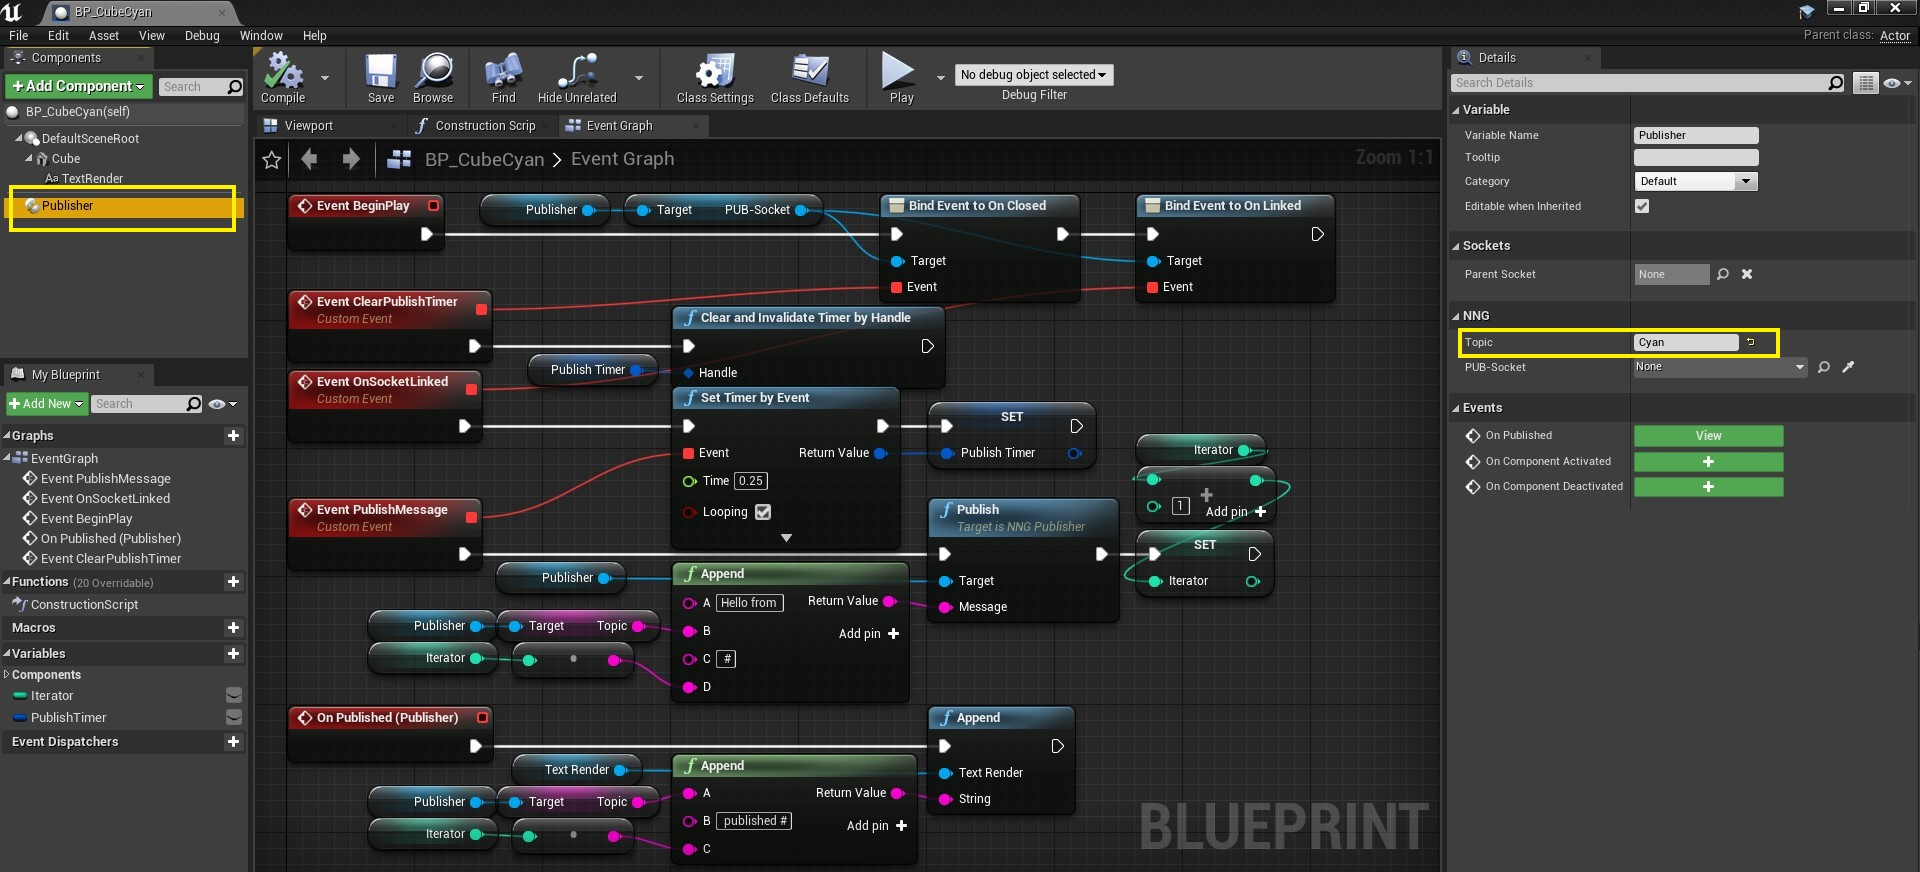
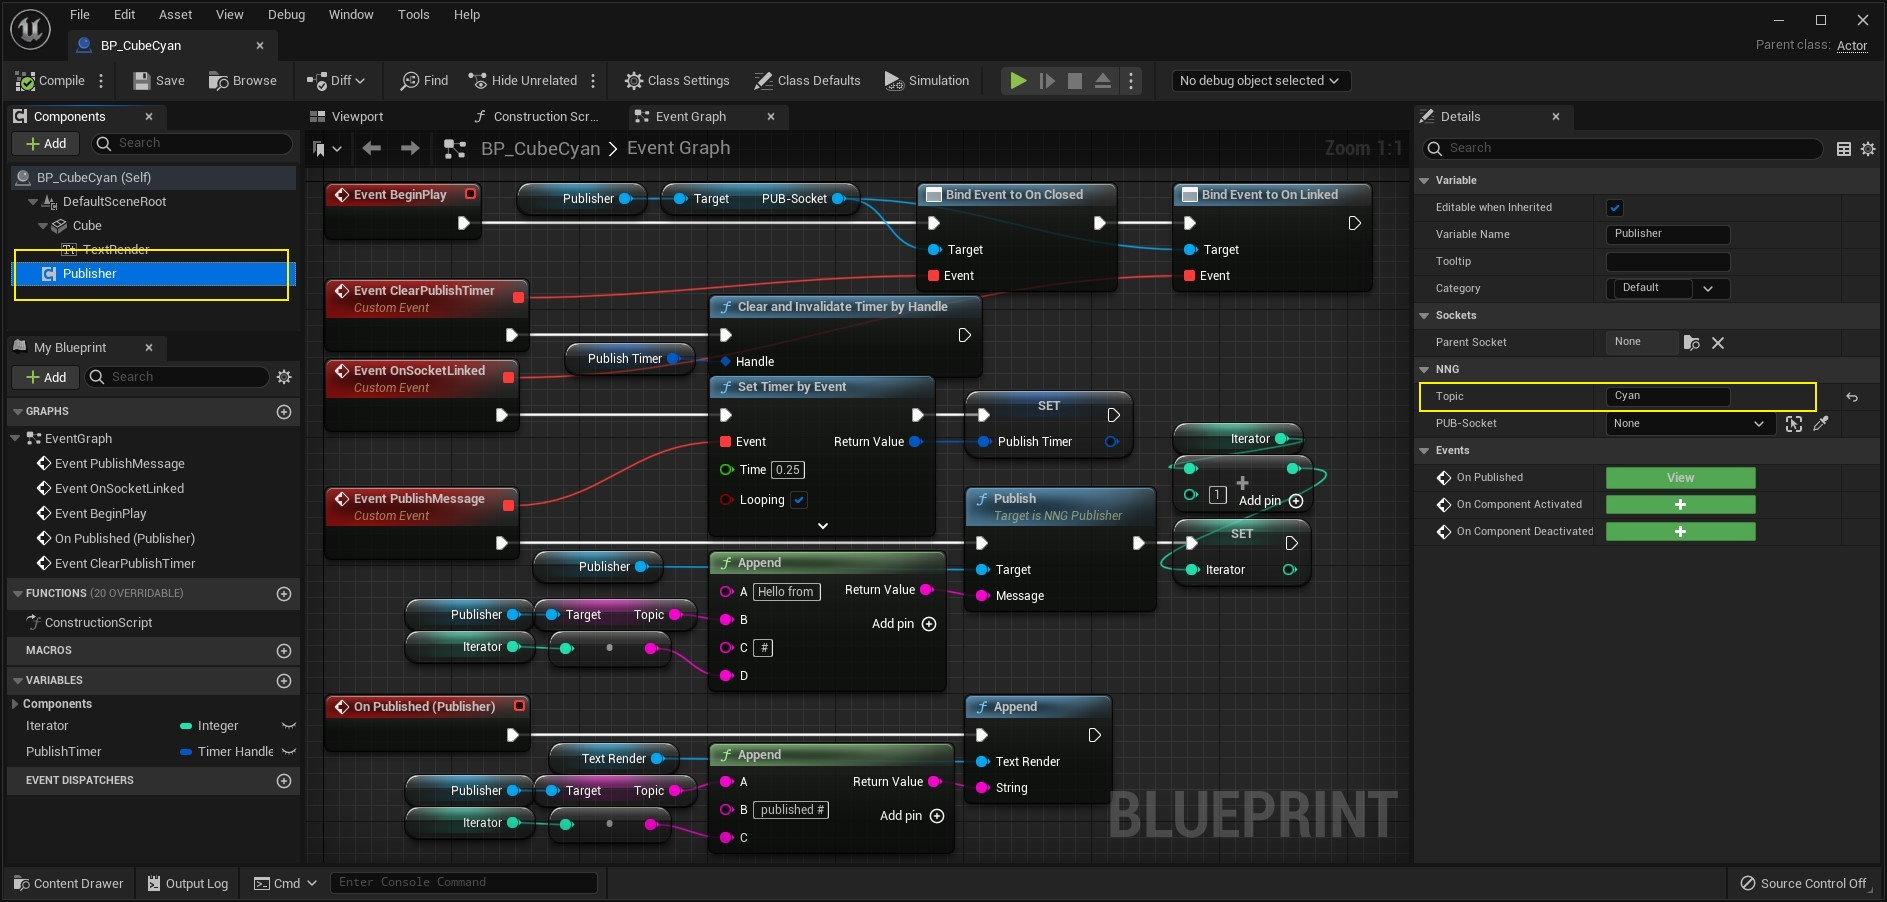
doc: Update screenshots and readme using UE5

diff --git a/README.md b/README.md
@@ -229,10 +229,10 @@ A Subscriber Actor-Component has:
 
 ## 3. Demo
 
-Find the plugin folders in the editors content browser by checking `View Options > Show Engine Content` and navigate to the folder 'Integration Tool Content'. The folder 'Demo' provides with three Blueprints BP_CubeCyan, BP_CubeYellow and BP_CubeGreen as well as with a map Map_PubSub_Demo.
+In the content browser enable the listing of plugin folders by checking `Settings > Show Engine Content`. Find and navigate to folder 'Integration Tool Content'. The folder 'Demo' provides with three Blueprints BP_CubeCyan, BP_CubeYellow and BP_CubeGreen as well as with a map Map_PubSub_Demo.
 
 ![Screenshot of Plugin Content](Docs/ScreenshotPluginContent.jpg "Screenshot of Plugin Content")
-<br>*Fig. 3.1.: Screenshot of Content Browser with 'Integration Tool' Content*
+<br>*Fig. 3.1.: Screenshot of Content Browser with Integration Tool Content*
 
 The demo implements a PubSub-scheme as follows:
 
